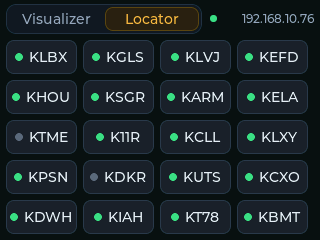
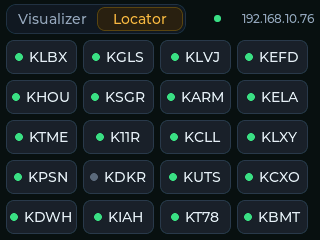
README: new screenshots, with the update star and the update screen
The Visualizer shot shows the yellow star (an update is available), and
there's a new one of the update screen. The splash shows both versions.

Changed region(s): [[0.0625, 0.0, 0.6875, 0.1458], [0.0312, 0.5542, 0.0938, 0.5833]]

diff --git a/README.md b/README.md
@@ -10,9 +10,9 @@ The map stays in charge. The remote reads the map's state over its HTTP API and
 sends it the same controls the `/remote` page does; it never fetches weather or
 drives LEDs itself.
 
-| Visualizer | Locator | Splash |
-|---|---|---|
-| ![The Visualizer tab](docs/visualizer.png) | ![The Locator tab](docs/locator.png) | ![The splash screen](docs/splash.png) |
+| Visualizer | Locator | Splash | Update |
+|---|---|---|---|
+| ![The Visualizer tab, with the update star](docs/visualizer.png) | ![The Locator tab](docs/locator.png) | ![The splash screen](docs/splash.png) | ![The firmware update screen](docs/update.png) |
 
 ## What it does
 
